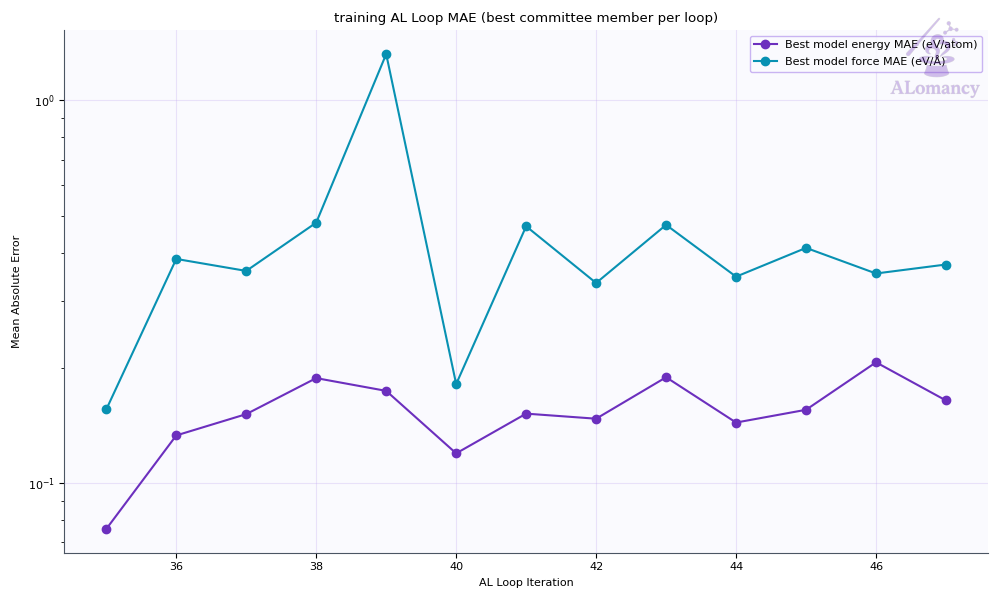
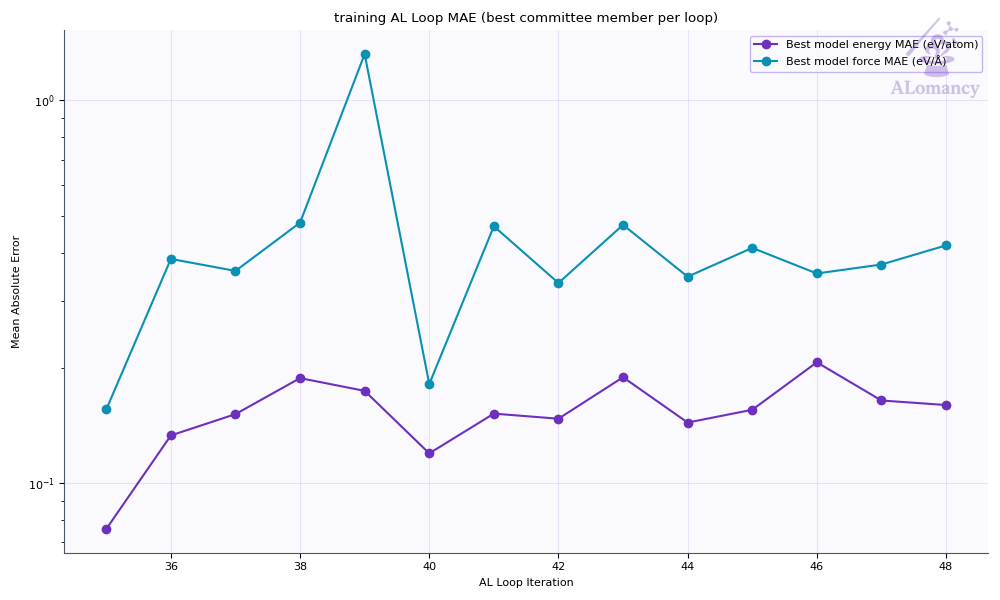
update good_c, yun_an

diff --git a/alomancy/yun_an/report/report.md b/alomancy/yun_an/report/report.md
@@ -1,30 +1,30 @@
-# ALomancy report: al_loop_47
+# ALomancy report: al_loop_48
 
-Workflow `committee_uncertainty` · trainer `mace` · generator `md` · evaluator `qe` · generated 2026-11-01T22:43:36
+Workflow `committee_uncertainty` · trainer `mace` · generator `md` · evaluator `qe` · generated 2026-11-04T02:29:22
 
-**Status:** ✖ 2 errors · ⚠ 4 warnings · 27 warning(s) logged
+**Status:** ✖ 2 errors · ⚠ 2 warnings · 💡 2 infos · 39 warning(s) logged
 
 ## Headline
 
-| | loop 46 | loop 47 | change |
+| | loop 47 | loop 48 | change |
 |---|---:|---:|---:|
-| Best model test force MAE (eV/Å) | 0.353 | 0.373 | +6% |
-| Best model test energy MAE (meV/atom) | 207 | 164 | -21% |
-| Training structures | 2.06e+03 | 2.08e+03 | +1% |
-| Test structures | 107 | 112 | +5% |
-| New structures this loop | 54 | 30 | -44% |
-| Warnings / errors logged | 50 | 27 | -46% |
+| Best model test force MAE (eV/Å) | 0.373 | 0.418 | +12% |
+| Best model test energy MAE (meV/atom) | 164 | 160 | -3% |
+| Training structures | 2.08e+03 | 2.15e+03 | +3% |
+| Test structures | 112 | 120 | +7% |
+| New structures this loop | 30 | 75 | +150% |
+| Warnings / errors logged | 27 | 39 | +44% |
 
 Best model: fit_3 of 5 (chosen on the `valid` split).
 
 ## Issues & suggestions
 
-- ✖ **remote_jobs_failed**: 21/81 remote jobs (26%) failed (14) or died (7). Check the job logs (results/alomancy.log has each failure's traceback); jobs killed by the scheduler usually need a longer max_time for that phase, or a partition with more memory.
-- ✖ **dft_partial_failure**: 15/45 structures sent to DFT (33%) came back without a result. Check the DFT output in results/<loop>/high_accuracy_evaluation; raise high_accuracy_evaluation.max_time / max_go_time if jobs timed out.
-- ⚠ **go_not_converged**: 8/30 geometry optimisations (27%) stopped at the step budget (200 steps) before reaching the force ceiling. Raise high_accuracy_evaluation.max_num_of_relax_steps, or raise high_accuracy_evaluation.force_ceiling (now 0.05 eV/Å) so they stop earlier. Non-converged structures are still kept as training data.
-- ⚠ **short_bond_excluded**: 3454/3864 structures (89%) were dropped for a bond shorter than 0.5 Å. The model is driving MD into collisions: lower md_kwargs.temperature or md_kwargs.timestep_fs, or add more short-range initialization data (dimers/trimers).
-- ⚠ **fewer_candidates**: Only 45 candidates were available for 100 requested structures. Generate more: raise md_kwargs.steps or structure_selection_kwargs.num_of_md_starts.
-- ⚠ **few_candidates_generated**: Structure generation produced only 45 usable candidates, less than twice the 100 structures added per loop, so the selector had little to choose from. Raise structure_generation.num_of_structures_to_generate (and md_kwargs.steps or structure_selection_kwargs.num_of_md_starts if MD runs end early).
+- ✖ **remote_jobs_failed**: 36/131 remote jobs (27%) failed (17) or died (19). Check the job logs (results/alomancy.log has each failure's traceback); jobs killed by the scheduler usually need a longer max_time for that phase, or a partition with more memory.
+- ✖ **dft_partial_failure**: 25/100 structures sent to DFT (25%) came back without a result. Check the DFT output in results/<loop>/high_accuracy_evaluation; raise high_accuracy_evaluation.max_time / max_go_time if jobs timed out.
+- ⚠ **go_not_converged**: 29/75 geometry optimisations (39%) stopped at the step budget (200 steps) before reaching the force ceiling. Raise high_accuracy_evaluation.max_num_of_relax_steps, or raise high_accuracy_evaluation.force_ceiling (now 0.05 eV/Å) so they stop earlier. Non-converged structures are still kept as training data.
+- ⚠ **short_bond_excluded**: 1706/2552 structures (67%) were dropped for a bond shorter than 0.5 Å. The model is driving MD into collisions: lower md_kwargs.temperature or md_kwargs.timestep_fs, or add more short-range initialization data (dimers/trimers).
+- 💡 **go_steps_near_budget**: Geometry optimisations used 173 of 200 allowed steps on average (87%). Consider raising high_accuracy_evaluation.max_num_of_relax_steps before they start hitting the limit.
+- 💡 **overfitting**: The best model's test force MAE (0.418 eV/Å) is 2.3x its training MAE (0.179 eV/Å). The test set covers configurations training doesn't: keep adding data, or raise general.dataset_kwargs.valid_fraction to select models on held-out data.
 
 ## Trends
 
@@ -42,6 +42,7 @@ Best model: fit_3 of 5 (chosen on the `valid` split).
 | 45 | 0.412 | 2007 | 6 | 6/100 | 100% | 0 | 100 |
 | 46 | 0.353 | 2055 | 54 | 54/100 | 39% | 0 | 50 |
 | 47 | 0.373 | 2085 | 30 | 30/45 | 73% | 0 | 27 |
+| 48 | 0.418 | 2152 | 75 | 75/100 | 61% | 0 | 39 |
 
 ![Best-model MAE per loop](plots/training_al_loop_mae_plot.png)
 
@@ -51,7 +52,7 @@ Best model: fit_3 of 5 (chosen on the `valid` split).
 
 ![Best model parity](plots/best_model_parity.png)
 
-Median relative error: train energy 4.2%, force 34.8%; test energy 2.8%, force 264.6%.
+Median relative error: train energy 3.2%, force 22.1%; test energy 2.3%, force 183.4%.
 Energies with |formation energy| < 0.05 eV/atom and atoms with |F| < 0.1 eV/Å are left out; force error is |ΔF|/|F| per atom.
 
 ![Best model percentage error](plots/best_model_percent_error.png)
@@ -61,17 +62,17 @@ Energies with |formation energy| < 0.05 eV/atom and atoms with |F| < 0.1 eV/Å a
 | config_type | Train | Test | Excluded: redundant | Excluded: quality filter | total |
 |---|---:|---:|---:|---:|---:|
 | IsolatedAtom | 5 | 0 | 0 | 0 | 5 |
-| high_sd | 684 | 96 | 28 | 454 | 1262 |
+| high_sd | 751 | 104 | 28 | 529 | 1412 |
 | init_MP | 69 | 4 | 0 | 0 | 73 |
 | init_amorphous | 67 | 12 | 8 | 0 | 87 |
 | init_dimer | 299 | 0 | 0 | 0 | 299 |
 | init_stretch_compress | 390 | 0 | 0 | 398 | 788 |
 | init_trimer | 571 | 0 | 0 | 0 | 571 |
-| **all** | **2085** | **112** | **36** | **852** | **3085** |
+| **all** | **2152** | **120** | **36** | **927** | **3235** |
 
-- Redundancy removal: 36 structure(s) flagged in total, 0 of this loop's 30 new.
-- DFT geometry-optimisation starting frames: 30 stored this loop, 5 used (the rest excluded by the train/test filters or redundancy removal).
-- Quality filters: high_force: 850, formation_energy: 243.
+- Redundancy removal: 36 structure(s) flagged in total, 0 of this loop's 75 new.
+- DFT geometry-optimisation starting frames: 75 stored this loop, 0 used (the rest excluded by the train/test filters or redundancy removal).
+- Quality filters: high_force: 925, formation_energy: 310.
 
 ![Training set composition](plots/training_set_composition.png)
 
@@ -79,28 +80,31 @@ Energies with |formation energy| < 0.05 eV/atom and atoms with |F| < 0.1 eV/Å a
 
 Redundancy removal flags near-duplicate training structures, so the model isn't trained on many copies of the same geometry. Each structure is described by `char_vec_128`: all of its interatomic distances, sorted and resampled to 128 values (`global_descriptor/atomic_distance_descriptor.make_char_vec`). Two structures count as duplicates when the Euclidean distance between their descriptors is below a tolerance: in database order, each structure still in the training set is kept unless it is within the tolerance of one already kept. The plot sweeps that tolerance and counts how many structures are kept at each value. **We are looking for plateaus** (shaded): ranges where the count doesn't change, so the result doesn't depend on the exact tolerance. The orange line (right axis) is the number of structures removed between consecutive tolerance steps, the gradient of the count: zero on a plateau. The start of the lowest plateau at least `general.redundancy_kwargs.min_plateau_width` of the swept range wide is used (dashed line). Nothing is flagged when no plateau qualifies, or when it would flag more than `max_flagged_fraction` of the structures; `general.redundancy_kwargs.tolerance` sets the tolerance directly.
 
-- This loop: 856 structures probed, tolerance 0.0398, 36 flagged as duplicates (7 plateau(s) found).
+- This loop: 923 structures probed, tolerance 0.0398, 36 flagged as duplicates (8 plateau(s) found).
 
 ![Redundancy tolerance probe](plots/redundancy_tolerance_probe.png)
 
 ## DFT
 
-- Structures: 30 returned of 45 submitted (30 relaxed, 0 single point).
-- Geometry optimisation: 22/30 reached the force ceiling (0.05 eV/Å); steps mean 153.6, median 141, max 200 of 200 allowed.
-- Average DFT time per relaxation: 353.5 min (median 340.3, max 569.2; 30 structures).
-- Largest per-atom force after DFT: median 0.05, max 0.30 eV/Å.
-- DFT phase wall-clock: 9.6 h (mean queue time 3 min).
+- Structures: 75 returned of 100 submitted (75 relaxed, 0 single point).
+- Geometry optimisation: 46/75 reached the force ceiling (0.05 eV/Å); steps mean 173.1, median 185, max 200 of 200 allowed.
+- Average DFT time per relaxation: 438.4 min (median 455.4, max 596.4; 75 structures).
+- Largest per-atom force after DFT: median 0.05, max 0.44 eV/Å.
+
+**Structures evaluated with DFT this loop (final geometries)**
+
+![Structures evaluated with DFT this loop (final geometries)](plots/added_structures.gif)
 
 ## MLIP training: mace
 
-- Best fit (fit_3) trained for 199 epochs, stage two from epoch 160; weights kept from epoch 171.
+- Best fit (fit_3) trained for 199 epochs, stage two from epoch 160; weights kept from epoch 167.
 
 ![Best model training curve](plots/best_model_training_curve.png)
 
 ## Structure generation: MD
 
 - Runs: 25 (25 completed, 0 seed(s) replaced)
-- Frames: 3869 recorded, 365 physical (no bond < 0.5 Å, volume ≤ 3 x the seed's; 345 frame(s) cut after a run expanded past it, seed frames left out), 365 picked as candidates, spread over each run
+- Frames: 2848 recorded, 846 physical (no bond < 0.5 Å, volume ≤ 3 x the seed's; 271 frame(s) cut after a run expanded past it, seed frames left out), 500 picked as candidates, spread over each run
 - Ensemble npt, T = 300 K, timestep 0.3 fs
 
 ![MD frames per run](plots/md_frames_per_run.png)
@@ -115,7 +119,7 @@ Redundancy removal flags near-duplicate training structures, so the model isn't 
 
 ## Selection: committee uncertainty
 
-- 45 candidates scored; 45 selected (100 %; max force std dev ≥ 0.332 eV/Å).
+- 500 candidates scored; 100 selected (20 %; max force std dev ≥ 2.05 eV/Å).
 
 ![Committee force std dev](plots/committee_force_std_dev.png)
 
@@ -124,14 +128,12 @@ Redundancy removal flags near-duplicate training structures, so the model isn't 
 | event | meaning | count |
 |---|---|---:|
 | `dft_summary` | DFT batch summary | 1 |
-| `few_candidates_generated` | fewer than 2x per-loop candidates generated | 1 |
-| `fewer_candidates` | fewer candidates than requested | 1 |
-| `job_died` | remote job died (killed / lost) | 7 |
-| `job_failed` | remote job failed | 14 |
-| `jobs_started` | remote jobs started | 5 |
+| `job_died` | remote job died (killed / lost) | 19 |
+| `job_failed` | remote job failed | 17 |
+| `jobs_started` | remote jobs started | 4 |
 | `md_summary` | MD summary | 1 |
 | `md_volume_expanded` | MD runs cut after expanding past max_volume_ratio | 1 |
-| `mlip_relax_dropped` | candidates dropped by MLIP relaxation | 1 |
+| `mlip_relax_fallback` | MLIP relaxation job failed (candidates unrelaxed) | 1 |
 | `quality_filtered` | train/test quality filter passes | 2 |
 | `redundancy_flagged` | redundancy removal passes | 1 |
-| `short_bond_excluded` | structures dropped for a short bond | 2 |
+| `short_bond_excluded` | structures dropped for a short bond | 1 |
